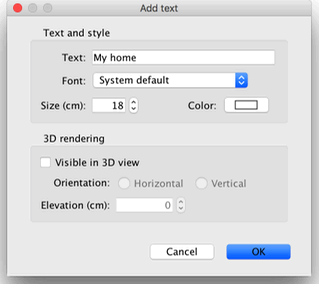
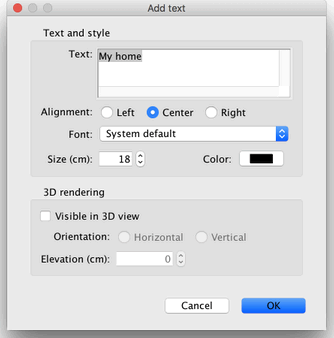
Updates for version 6.0
git-svn-id: https://svn.code.sf.net/p/sweethome3d/code/trunk@6544 03e323e1-6c6c-46a5-9f71-c4ce5d8c6204

diff --git a/com/eteks/sweethome3d/viewcontroller/resources/help/fr/editingFurniture.html b/com/eteks/sweethome3d/viewcontroller/resources/help/fr/editingFurniture.html
@@ -101,7 +101,7 @@
                       <td><p>L'indicateur de taille montre le coin que vous pouvez glisser-d&eacute;poser pour modifier
                           la largeur et la profondeur du meuble s&eacute;lectionn&eacute;. L'utilisation de cet indicateur sur un 
                           meuble pivot&eacute; autour d'un axe horizontal ou en maintenant la touche <i>Majuscule</i> enfonc&eacute;e
-                          modifiera proportionnellement la largeur, la profondeur et la hauteur du meuble s&eacute;lectionn&eacute;.</p>
+                          modifiera proportionnellement la largeur, la profondeur et la hauteur du meuble s&eacute;lectionn&eacute;. Cet indicateur permet aussi de ne redimensionner le meuble s&eacute;lectionn&eacute; qu'en largeur ou en profondeur quand la touche <i> Ctrl</i> (ou <i>alt </i>sous Mac OS X) est enfonc&eacute;e.</p>
                       </td>
                     </tr>
                   </table>
@@ -134,7 +134,7 @@ Les meubles modifi&eacute;s avec la souris sont dessin&eacute;s simultan&eacute;
 	    (ou si les meubles s&eacute;lectionn&eacute;s sont tous les m&ecirc;mes), vous pouvez aussi cliquer sur le bouton <i>Modifier</i> en regard de l'option <i>Mat&eacute;riaux</i>, pour remplacer chaque couleur ou chaque texture du meuble par celle de votre choix. </p>
 	    <p align="center"><img src="images/editingMaterials.png" alt="Modify furniture"></p>
 	    <p>Le panneau <i>Mat&eacute;riaux du mobilier</i> affiche la liste des mat&eacute;riaux que vous pouvez modifier, ainsi qu'un aper&ccedil;u 3D des modifications de couleur et de texture en cours, les mat&eacute;riaux n'ayant pas toujours des noms clairs ou en fran&ccedil;ais (comme <i>bone2</i> &agrave; la place de <i>matelas</i> ou <i>flyellow</i> &agrave; la place de <i>cadre de lit </i> dans la figure pr&eacute;c&eacute;dente). 
-      Si besoin, vous pouvez aussi faire tourner l'objet dans l'aper&ccedil;u 3D &agrave; l'aide de  la souris.</p></td>
+      Si besoin, vous pouvez aussi faire tourner l'objet dans l'aper&ccedil;u 3D &agrave; l'aide de  la souris et modifier plusieurs mat&eacute;riaux en m&ecirc;me temps en effectuant une s&eacute;lection multiple dans la liste.</p></td>
 	</tr>
 </table>
 <div id="taskbox">
@@ -153,6 +153,10 @@ Les meubles modifi&eacute;s avec la souris sont dessin&eacute;s simultan&eacute;
                   Modifier...</i>. Les valeurs des attributs diff&eacute;rentes 
                   d'un meuble &agrave; l'autre dans l'ensemble des meubles s&eacute;lectionn&eacute;s, 
                   appara&icirc;tront vides dans le panneau des meubles.</td>
+            </tr>
+            <tr valign="top">
+              <td><p>&#149;</p></td>
+              <td><p>Quand une devise est choisie dans le panneau des <a href="editingPreferences.html">pr&eacute;f&eacute;rences</a>, le panneau de modification des meubles permet aussi de donner un prix et un pourcentage de TVA &agrave; appliquer au mobilier s&eacute;lectionn&eacute;. </td>
             </tr>
             <tr valign="top"> 
               <td> <p>&#149;</p></td>

diff --git a/com/eteks/sweethome3d/viewcontroller/resources/help/en/editingFurniture.html b/com/eteks/sweethome3d/viewcontroller/resources/help/en/editingFurniture.html
@@ -92,7 +92,7 @@
                       </td>
                       <td><p>The size indicator shows the corner you can drag  to change the width and the depth
                           of the selected piece. Dragging this indicator  on a horizontally rotated piece or while pressing the <i>Shift</i> 
-                          key will proportionally update the width, depth and height of the selected piece. </p>
+                          key will proportionally update the width, depth and height of the selected piece. This indicator lets you also resize the selected piece  only along its width or depth when the<i> Ctrl</i> key (<i>alt </i>key under Mac OS X) is pressed.</p>
                       </td>
                     </tr>
                   </table>
@@ -124,7 +124,7 @@
 	    <p>The <i>Furniture materials</i> pane displays the list of materials you can edit, and a 3D preview 
 	    of the color and texture changes you made, because materials may not always have  some clear or translated names 
 	    (like <i>bone2</i> instead of <i>mattress</i> or <i>flyellow</i> instead of <i>frame</i> in the previous figure). 
-      You can also  rotate the object in the 3D preview with the mouse if necessary.</p></td>
+      When necessary, you can also  rotate the object in the 3D preview with the mouse and  modify more than a material at the same time after selecting them in the list.</p></td>
 	</tr>
 </table>
 <div id="taskbox">
@@ -145,6 +145,10 @@
                   The values of the attributes that are different from one piece 
                   to another in the selected furniture set, will appear blank 
               in the furniture pane.</td>
+            </tr>
+            <tr valign="top">
+              <td><p>&#149;</p></td>
+              <td><p>When  a currency is chosen in the <a href="editingPreferences.html">preferences</a> pane, the furniture modification pane lets you also enter the price and the VAT / Sales tax / GST percentage of the selected furniture. </td>
             </tr>
             <tr valign="top"> 
               <td> <p>&#149;</p></td>

diff --git a/com/eteks/sweethome3d/viewcontroller/resources/help/fr/editingPreferences.html b/com/eteks/sweethome3d/viewcontroller/resources/help/fr/editingPreferences.html
@@ -43,9 +43,10 @@
 	    comme dans <b>1 3/4</b>, que le programme interpr&eacute;tera comme <b>1&#190&quot;</b>. Pour les aires, l'unit&eacute; <i>Pied/Pouce/Fraction</i> affiche toujours 
 	    la valeur la plus proche en pieds carr&eacute;, tandis que l'unit&eacute; <i>Pouce/D&eacute;cimales</i> affiche des d&eacute;cimales 
 	    si besoin.</p>
-		<p> Les boutons radio <i>Dossiers de cat&eacute;gorie </i>et <i>Liste 
+		<p>La liste d&eacute;roulante <i>Devise</i> permet de choisir la devise pour les prix du mobilier. Quand une devise est choisie &agrave; place de l'option par d&eacute;faut <i>Ignorer les prix</i>, il est possible de saisir un prix dans le panneau de modification des meubles, d'afficher la colonne <i>Prix</i> dans la liste des meubles et d'obtenir le total des objets qui ont un prix sous cette liste. Si l'option <i>Utiliser la TVA</i> est s&eacute;lectionn&eacute;e, les prix des meubles s'entendent alors Hors Taxe, et il est possible de saisir un taux de TVA dans  le panneau de modification des meubles et d'afficher les colonnes suppl&eacute;mentaires <i>% TVA</i>, <i>TVA</i>, <i>Prix TTC</i> dans la liste des meubles.<br>
+		  Les boutons radio <i>Dossiers de cat&eacute;gorie </i>et <i>Liste 
           avec recherche </i>permettent de choisir le mode d'affichage du catalogue 
-          de meubles dans chaque <a href="ui.html">fen&ecirc;tre Sweet Home 3D</a>.</p>
+        de meubles dans chaque <a href="ui.html">fen&ecirc;tre Sweet Home 3D</a>.</p>
 	    <p>La bo&icirc;te &agrave; cocher <i>Fl&egrave;ches de navigation 3D</i> permet d'afficher ou non les boutons en forme de fl&egrave;ches d'aide 
           &agrave; la <a href="editing3DView.html">navigation dans la vue 3D</a>.<br>
           Quand elle est activ&eacute;e, l'option <i>Vue a&eacute;rienne centr&eacute;e sur la s&eacute;lection</i> centrera 

diff --git a/com/eteks/sweethome3d/viewcontroller/resources/help/fr/tips.html b/com/eteks/sweethome3d/viewcontroller/resources/help/fr/tips.html
@@ -40,12 +40,16 @@
                 logement, du plan du logement et de la vue 3D du logement, pour 
                 redimensionner ces panneaux.</p></td>
           </tr>
+          <tr valign="top">
+            <td><p>&#149;</p></td>
+            <td><p>Pour tester les fonctionnalit&eacute;s de Sweet Home 3D sans 
+              risque, souvenez-vous que toutes les op&eacute;rations y sont 
+              annulables except&eacute;es celles de modification des <a href="importingFurniture.html">meubles 
+                import&eacute;s</a> dans le catalogue. </p></td>
+          </tr>
           <tr valign="top"> 
             <td><p>&#149;</p></td>
-            <td> <p>Pour tester les fonctionnalit&eacute;s de Sweet Home 3D sans 
-                risque, souvenez-vous que toutes les op&eacute;rations y sont 
-                annulables except&eacute;es celles de modification des <a href="importingFurniture.html">meubles 
-                import&eacute;s</a> dans le catalogue. </p></td>
+            <td> <p>Tous les champs de saisie num&eacute;riques permettent d'entrer un calcul math&eacute;matique utilisant les op&eacute;rateurs + - * / ^ (puissance) et les fonctions LN, LOG, EXP, SQR, SQRT, COS, SIN, TAN, ARCCOS, ARCSIN, ARCTAN. Le r&eacute;sultat du calcul remplace la formule saisie aussit&ocirc;t que le champ num&eacute;rique perd le focus, et la formule ou valeur saisie s'affiche en rouge tant qu'elle est incorrecte.</p></td>
           </tr>
           <TR VALIGN="top"> 
             <TD colspan="2"> <P><B>Catalogue des meubles</B></P></TD>

diff --git a/com/eteks/sweethome3d/viewcontroller/resources/help/en/editingPolylines.html b/com/eteks/sweethome3d/viewcontroller/resources/help/en/editingPolylines.html
@@ -41,7 +41,8 @@
 				</p>
 					<p align="center"><img src="images/editingPolylines.png"></p>
 					<p>In the polylines pane, you may change&nbsp;the thickness of the selected polyline, the arrows  drawn at its ends, the style
-			  of joined lines, its dash style and its color. The last choice of the <i>Join style</i> drop down list allows to draw a curve instead of lines.</p></td>
+			  of joined lines, its dash style, the  offset to shift dash pattern at start and its color. The last choice of the <i>Join style</i> drop down list allows
+			   to draw a curve instead of lines.</p></td>
 			</tr>
 		</table>
 		<div id="taskbox">
@@ -56,7 +57,8 @@
 								<td>
 									<p>If you want to modify the style of a set of polylines, select these polylines and choose <i>Plan &gt; Modify polylines...</i>. The
 										values of the attributes that are different from one polyline to another in the selected polylines set, will appear blank in the polylines
-										pane. You may also copy the style of a polyline on other polylines, by copying it in the clipboard with <i>Edit &gt; Copy</i> menu item, then choosing <i>Edit &gt; Paste style</i> after selecting the polylines you want to modify.
+										pane. You may also copy the style of a polyline on other polylines, by copying it in the clipboard with <i>Edit &gt; Copy</i> menu item, 
+										then choosing <i>Edit &gt; Paste style</i> after selecting the polylines you want to modify.
 							  </td>
 							</tr>
 							<tr valign="top">

diff --git a/com/eteks/sweethome3d/viewcontroller/resources/help/en/tips.html b/com/eteks/sweethome3d/viewcontroller/resources/help/en/tips.html
@@ -37,11 +37,18 @@
                 catalog, home furniture list, home plan and home 3D view, to resize 
                 these panes.</p></td>
           </tr>
-          <tr valign="top"> 
+          <tr valign="top">
             <td><p>&#149;</p></td>
-            <td> <p>To test Sweet Home 3D features without risk, remember that 
-                all operations are undoable except the modification of <a href="importingFurniture.html">imported 
+            <td><p>To test Sweet Home 3D features without risk, remember that 
+              all operations are undoable except the modification of <a href="importingFurniture.html">imported 
                 furniture</a> in catalog. </p></td>
+          </tr>
+          <tr valign="top">
+            <td><p>&#149;</p></td>
+            <td><p>Numeric text fields handling numbers support mathematical expressions with the use of the operators + - * / ^ (power) 
+            and the functions LN, LOG, EXP, SQR, SQRT, COS, SIN, TAN, ARCCOS, ARCSIN, ARCTAN. The result of the expression replaces 
+            the entered text as soon as the focus is lost on the numeric text field, and the entered expression or value is displayed 
+            in red as long as  it's not correct.</p></td>
           </tr>
           <TR VALIGN="top"> 
             <TD colspan="2"> <P><B>Furniture catalog</B></P></TD>

diff --git a/com/eteks/sweethome3d/viewcontroller/resources/help/en/editingPreferences.html b/com/eteks/sweethome3d/viewcontroller/resources/help/en/editingPreferences.html
@@ -46,7 +46,12 @@
 	     program will understand as <b>1&#190&quot;</b>. For areas, the <i>Foot/Inch/Fraction</i>  always 
 	    displays the closest value in square feet, whereas the <i>Inch/Decimals</i> unit displays some decimals 
 	    when necessary.</p>
-	  <p> The <i>Category folders</i> and the <i>Searchable list</i> radio buttons 
+	  <p> The <i>Currency</i> drop down list lets you choose the currency of furniture prices. When a currency is selected instead of the <i>Ignore prices</i> 
+	  default option, you may enter a price in the furniture modification pane, display the <i>Price</i> column in the furniture list and obtain the total 
+	  price of object prices under that  list. If the option <i>Use VAT</i> (or <i>Use Sales tax</i> or <i>Use GST</i> according to your country) is selected, 
+	  furniture prices are considered as pre-tax prices, and you may enter a <i>VAT</i> / <i>Sales tax</i> / <i>GST</i> percentage in the furniture modification 
+	  pane and display additional columns related to taxes in the furniture list.<br>
+	  The <i>Category folders</i> and the <i>Searchable list</i> radio buttons 
           let you choose how the furniture catalog should be displayed in each 
         <a href="ui.html">Sweet Home 3D window</a>.</p>
 	  <p>The <i>3D navigation arrows</i> check box allows to display arrow buttons 

diff --git a/com/eteks/sweethome3d/viewcontroller/resources/help/fr/editingWalls.html b/com/eteks/sweethome3d/viewcontroller/resources/help/fr/editingWalls.html
@@ -37,7 +37,7 @@
         puis glissez-d&eacute;posez les, ou appuyez sur les  fl&egrave;ches du clavier.</p>
         <p>Quand <b>un</b> mur est s&eacute;lectionn&eacute; dans le plan, vous pouvez aussi d&eacute;placer l'une de ses extr&eacute;mit&eacute;s, 
         avec l'indicateur de taille qui appara&icirc;t &agrave; chaque extr&eacute;mit&eacute; du mur s&eacute;lectionn&eacute;.</p>
-        <p align="center"><img src="../images/wallEnds.png" width="320" height="80"></p>
+        <p align="center"><img src="../images/wallIndicators.png" width="320" height="80"></p>
     </td>
   </tr>
 </table>
@@ -66,10 +66,15 @@
             </td>
           </tr>
           <tr valign="top">
-            <td nowrap><p>4.</p>
-            </td>
+            <td nowrap><p>4.</p></td>
             <td><p>L'indicateur de taille du point de fin montre le point que vous pouvez glisser-d&eacute;poser
-                pour d&eacute;placer le point de fin du mur.</p>
+              pour d&eacute;placer le point de fin du mur.</p></td>
+          </tr>
+          <tr valign="top">
+            <td nowrap><p>5.</p>
+            </td>
+            <td><p>L'indicateur d'arrondi montre le milieu du mur que vous pouvez glisser-d&eacute;poser
+              pour modifier son secteur angulaire.</p>
             </td>
           </tr>
         </table>

diff --git a/com/eteks/sweethome3d/viewcontroller/resources/help/en/editingWalls.html b/com/eteks/sweethome3d/viewcontroller/resources/help/en/editingWalls.html
@@ -35,7 +35,7 @@
           drag and drop them, or press the keyboard arrows.</p>
         <p> When <b>one</b> wall is selected in the plan, you may also move its start and end point,  with
           the size indicator that appear at each end of the selected wall.</p>
-        <p align="center"><img src="../images/wallEnds.png" width="320" height="80"></p>
+        <p align="center"><img src="../images/wallIndicators.png" width="320" height="80"></p>
     </td>
   </tr>
 </table>
@@ -63,9 +63,13 @@
             </td>
           </tr>
           <tr valign="top">
-            <td nowrap><p>4.</p>
+            <td nowrap><p>4.</p></td>
+            <td><p>The end point size indicator shows the  point you can drag  to move the end point of the wall.</p></td>
+          </tr>
+          <tr valign="top">
+            <td nowrap><p>5.</p>
             </td>
-            <td><p>The end point size indicator shows the  point you can drag  to move the end point of the wall.</p>
+            <td><p>The roundness  indicator shows the  middle of the wall you can drag  to change its arc extent.</p>
             </td>
           </tr>
         </table>

diff --git a/com/eteks/sweethome3d/viewcontroller/resources/help/en/addingTexts.html b/com/eteks/sweethome3d/viewcontroller/resources/help/en/addingTexts.html
@@ -36,9 +36,9 @@
 	    enter its text in the pane that will appear as shown below. </p>
 	  <p align="center"><img src="images/addingText.png"></p>
 	  <p>Once a text is created, you may change its size and its style with the menu items available in <i>Plan &gt; Modify text style</i> submenu. 
-	  You may also change its text, its font, its color and its 3D rendering by  selecting the 
-	  <i>Plan &gt; Modify text</i> menu item. Selecting the <i>Visible in the 3D view</i>  check box in the modification pane will let the text appear in the 3D view too, 
-	  either horizontally or vertically oriented. </p>
+	  You may also change its text, its alignment, its font, its color and its 3D rendering by  selecting the 
+	  <i>Plan &gt; Modify text</i> menu item. Selecting the <i>Visible in the 3D view</i>  check box in the modification pane will let the text appear 
+	  in the 3D view too, either horizontally or vertically oriented. </p>
 	  <table align="center" cellspacing="5">
 	    <tr>
 	      <td><img src="../images/horizontalOrientation.jpg" border="1" ></td>

diff --git a/com/eteks/sweethome3d/viewcontroller/resources/help/en/addingFurniture.html b/com/eteks/sweethome3d/viewcontroller/resources/help/en/addingFurniture.html
@@ -69,8 +69,8 @@
               <p>&#149;</p>
             </td>
             <td>
-              <p>A piece of furniture qualified as a door or a window indicates to Sweet Home 3D to automatically make holes
-                in walls at the intersection location with doors or windows. Similarly, a staircase is able to make a hole in the ceiling and the floor of upper levels. This computation isn't made for the other kinds
+              <p>A piece of furniture qualified as a door or a window is able to automatically make holes
+                in walls at the intersection with this kind of furniture. Similarly, a staircase is able to make a hole in the ceiling and the floor of upper levels. This computation isn't made for the other kinds
               of furniture. </td>
           </tr>
           <tr valign="top">

diff --git a/com/eteks/sweethome3d/viewcontroller/resources/help/fr/addingTexts.html b/com/eteks/sweethome3d/viewcontroller/resources/help/fr/addingTexts.html
@@ -38,7 +38,7 @@
 	    </center>
 	  <p>Une fois qu'un texte est cr&eacute;&eacute;, vous pouvez modifier sa taille
 	    et son style avec les choix propos&eacute;s dans le sous-menu <i>Plan &gt; Modifier
-	      le style du texte</i>. Vous pouvez aussi modifier son contenu, sa police de caract&egrave;res, 
+	      le style du texte</i>. Vous pouvez aussi modifier son contenu, son alignement, sa police de caract&egrave;res, 
 	    sa couleur et son rendu en 3D en double-cliquant sur
 	    celui-ci dans le plan ou en s&eacute;lectionnant le menu <i>Plan &gt; Modifier le texte</i>. La s&eacute;lection de la bo&icirc;te &agrave; cocher 
 	    <i>Visible dans la vue 3D </i>dans le panneau de modification fera appara&icirc;tre le texte dans la vue 3D aussi, avec une orientation soit horizontale soit verticale. </p>
